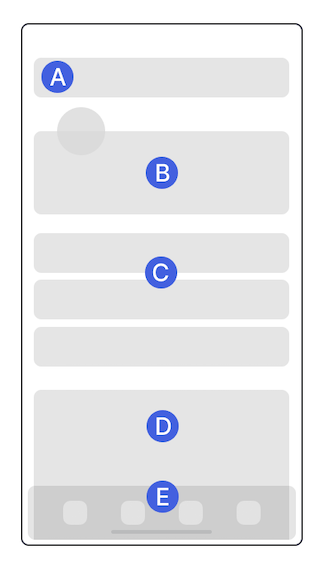
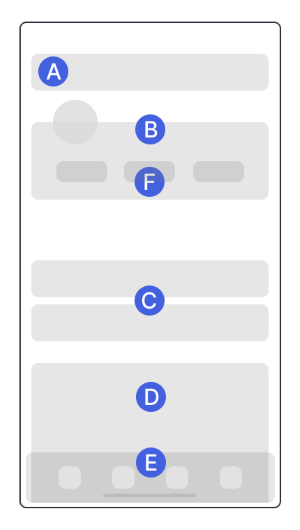
Update documentation

Changed region(s): [[0.06, 0.0302, 0.96, 0.966], [0.51, 0.7245, 0.54, 0.7547], [0.15, 0.1208, 0.18, 0.1509]]

diff --git a/style-conventions/index.html b/style-conventions/index.html
@@ -1947,12 +1947,12 @@
 <td align="left"><em>click</em> (desktop and web) or <em>tap</em> (mobile).</td>
 </tr>
 <tr>
-<td align="left">Select multiple UI elements</td>
-<td align="left"><em>choose</em> for desktop, web, and mobile.</td>
+<td align="left">Select one or more user-preferred options from a list</td>
+<td align="left"><em>choose</em> </br>Example: <em>Choose a name and highlight colour for your group chat</em>.</td>
 </tr>
 <tr>
-<td align="left">Select text</td>
-<td align="left"><em>select</em></td>
+<td align="left">Select one or more specific option from a list / select text</td>
+<td align="left"><em>select</em> </br>Example: <em>Select any channel with a lock icon from the channel list</em>.</td>
 </tr>
 <tr>
 <td align="left">Acion on checkboxes</td>
@@ -2476,7 +2476,7 @@
         <span class="md-icon" title="Date of last update">
           <svg xmlns="http://www.w3.org/2000/svg" viewBox="0 0 24 24"><path d="M21 13.1c-.1 0-.3.1-.4.2l-1 1 2.1 2.1 1-1c.2-.2.2-.6 0-.8l-1.3-1.3c-.1-.1-.2-.2-.4-.2m-1.9 1.8-6.1 6V23h2.1l6.1-6.1-2.1-2M12.5 7v5.2l4 2.4-1 1L11 13V7h1.5M11 21.9c-5.1-.5-9-4.8-9-9.9C2 6.5 6.5 2 12 2c5.3 0 9.6 4.1 10 9.3-.3-.1-.6-.2-1-.2s-.7.1-1 .2C19.6 7.2 16.2 4 12 4c-4.4 0-8 3.6-8 8 0 4.1 3.1 7.5 7.1 7.9l-.1.2v1.8Z"/></svg>
         </span>
-        <span class="git-revision-date-localized-plugin git-revision-date-localized-plugin-date">November 28, 2022</span>
+        <span class="git-revision-date-localized-plugin git-revision-date-localized-plugin-date">December 8, 2022</span>
       </span>
     
     

diff --git a/terminology/index.html b/terminology/index.html
@@ -729,6 +729,10 @@
 <td align="left">E</td>
 <td align="left">tab bar</td>
 </tr>
+<tr>
+<td align="left">F</td>
+<td align="left">tabs</td>
+</tr>
 </tbody>
 </table>
 <h3 id="status-desktop-and-status-web-user-interface-areas">Status Desktop and Status Web user interface areas<a class="headerlink" href="#status-desktop-and-status-web-user-interface-areas" title="Permanent link">&para;</a></h3>
@@ -854,7 +858,7 @@
         <span class="md-icon" title="Date of last update">
           <svg xmlns="http://www.w3.org/2000/svg" viewBox="0 0 24 24"><path d="M21 13.1c-.1 0-.3.1-.4.2l-1 1 2.1 2.1 1-1c.2-.2.2-.6 0-.8l-1.3-1.3c-.1-.1-.2-.2-.4-.2m-1.9 1.8-6.1 6V23h2.1l6.1-6.1-2.1-2M12.5 7v5.2l4 2.4-1 1L11 13V7h1.5M11 21.9c-5.1-.5-9-4.8-9-9.9C2 6.5 6.5 2 12 2c5.3 0 9.6 4.1 10 9.3-.3-.1-.6-.2-1-.2s-.7.1-1 .2C19.6 7.2 16.2 4 12 4c-4.4 0-8 3.6-8 8 0 4.1 3.1 7.5 7.1 7.9l-.1.2v1.8Z"/></svg>
         </span>
-        <span class="git-revision-date-localized-plugin git-revision-date-localized-plugin-date">November 28, 2022</span>
+        <span class="git-revision-date-localized-plugin git-revision-date-localized-plugin-date">December 8, 2022</span>
       </span>
     
     
